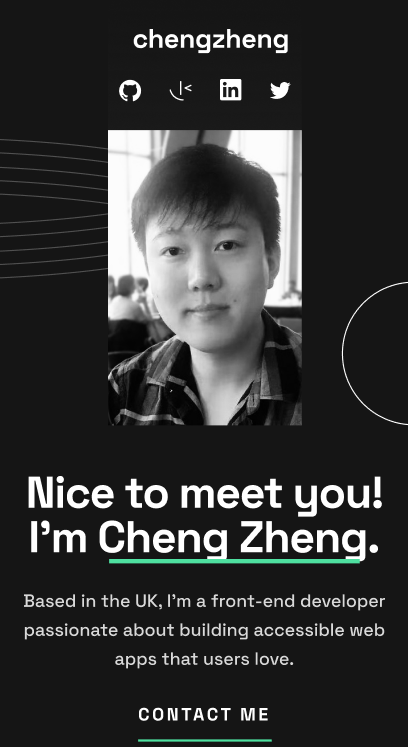
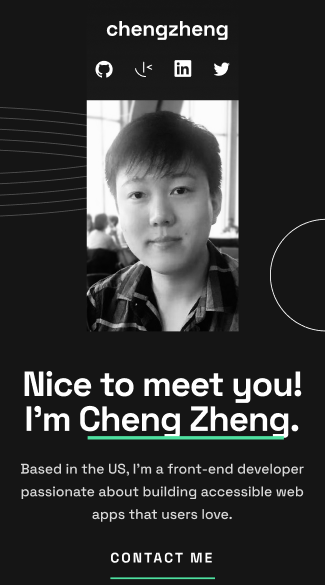
update readme

diff --git a/index.html b/index.html
@@ -96,7 +96,7 @@
         <h1>Nice to meet you!</h1>
         <h1>I'm <a href="#" id="name_link">Cheng Zheng</a>.</h1>
       </div>
-      <p>Based in the UK, I'm a front-end developer passionate about building accessible web apps that users love.</p>
+      <p>Based in the US, I'm a front-end developer passionate about building accessible web apps that users love.</p>
       <a href="#" class="_link">CONTACT ME</a>
       <hr>
     </div>
